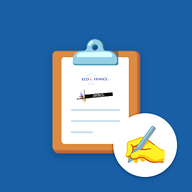
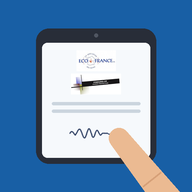
feat: remplace le carnet par une tablette sur l'icône de l'app
Nouveau concept d'icône : tablette avec écran affichant les logos
ECOFRANCE et FINEURO en en-tête, deux champs de formulaire, et une
signature manuscrite en bas de l'écran, avec un doigt qui vient la
signer — plus fidèle à l'usage réel de l'app (signature tactile sur
mobile/tablette) que le précédent visuel carnet + stylo papier.

Bump de CACHE_VERSION pour que les appareils déjà installés récupèrent
la nouvelle icône au prochain accès réseau.

Claude-Session: https://claude.ai/code/session_01DDfLhwsvrpRrsosDNXuFqa

diff --git a/sw.js b/sw.js
@@ -1,7 +1,7 @@
 /* Service worker : rend l'application utilisable hors connexion.
    Bump CACHE_VERSION à chaque déploiement qui change l'un des fichiers ci-dessous
    (sinon les appareils déjà installés continueraient de servir l'ancienne version en cache). */
-const CACHE_VERSION = 'v3';
+const CACHE_VERSION = 'v4';
 const CACHE_NAME = 'rdv-cache-' + CACHE_VERSION;
 
 const APP_SHELL = [
